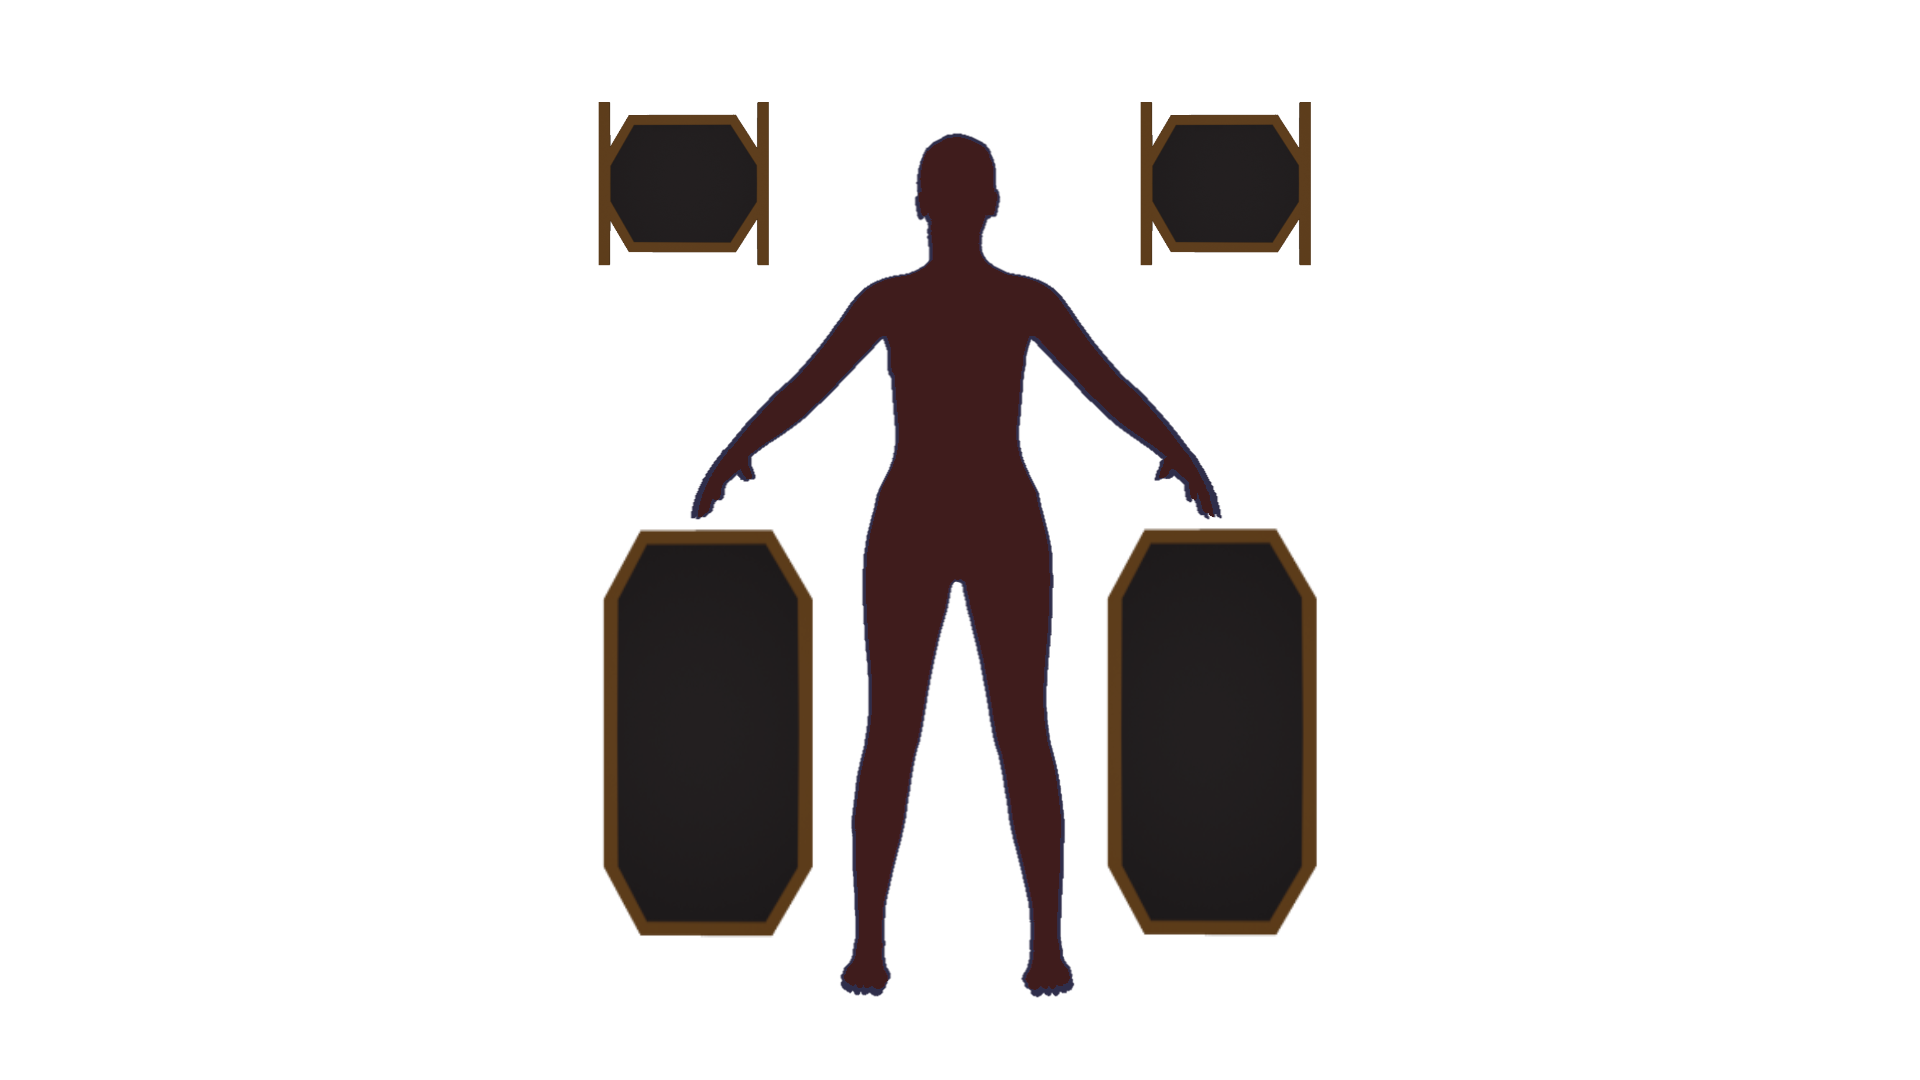
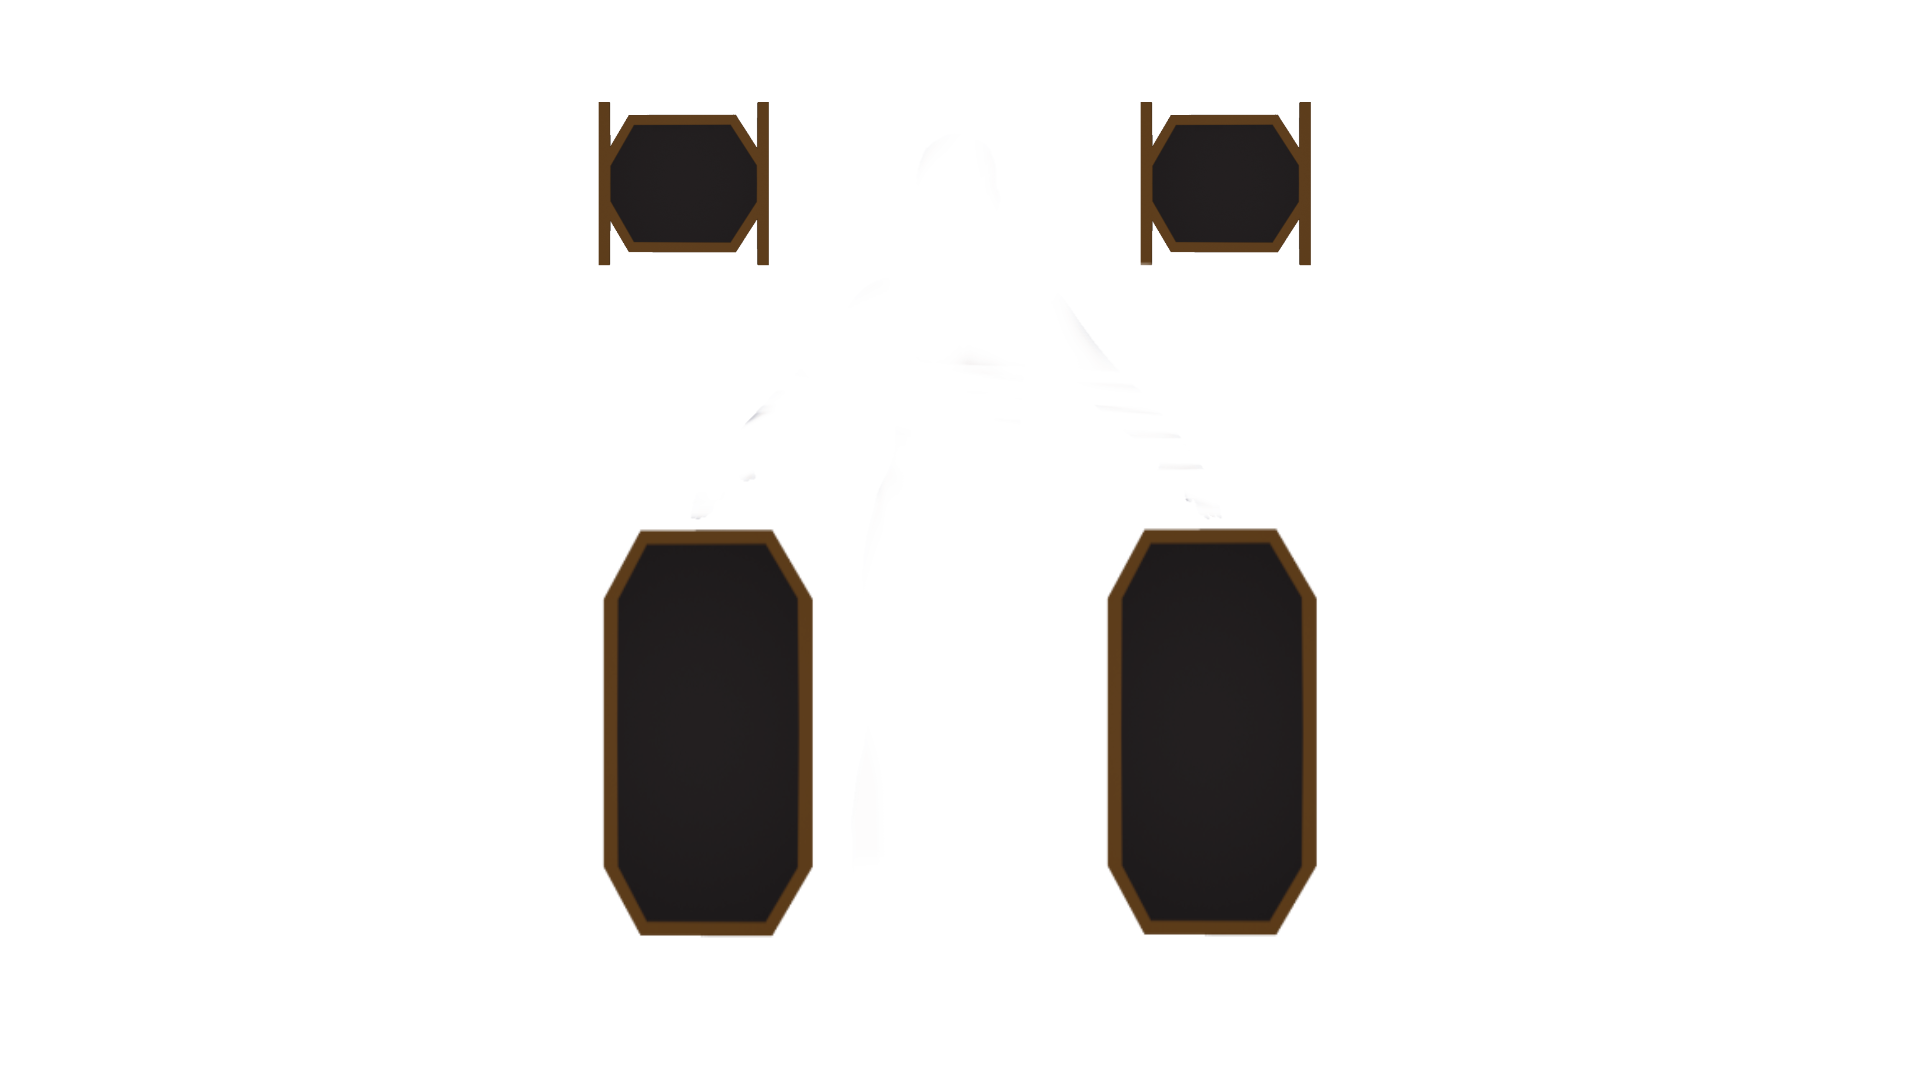
Refactoring Stage 29.8. Fix Character cheet view

Changed region(s): [[0.3438, 0.1222, 0.6562, 0.9472]]

diff --git a/Settings/UI/player_menu_ui.py b/Settings/UI/player_menu_ui.py
@@ -53,7 +53,7 @@ class PlayerMenuUI(Inventory):
         # Left, right, bottom, top
         self.base.frame_inv_size = [-3, 3, -1, 3]
         self.base.frame_inv_int_canvas_size = [-2, 2.3, -2, 2]
-        self.base.frame_inv_int_size = [-.5, .2, -1.3, .5]
+        self.base.frame_inv_int_size = [-.5, 1.2, -1.3, .5]
 
         """ Frame Colors """
         self.frm_opacity = 1
@@ -255,11 +255,11 @@ class PlayerMenuUI(Inventory):
                 base.is_ui_active = True
                 self.show_inventory_data()
                 self.base.is_inventory_active = True
-                self.prepare_character(camera=base.camera)
+                self.prepare_character()
             else:
                 self.clear_ui_inventory()
                 self.base.is_inventory_active = False
-                self.revert_character(camera=base.camera)
+                self.revert_character()
 
     def pos_2d(self, x, y):
         return Point3(x, 0, -y)
@@ -323,42 +323,42 @@ class PlayerMenuUI(Inventory):
             taskMgr.add(self.drag_and_drop_task, "drag_and_drop_task", sort=-50)
             self.is_inventory_items_loaded = True
 
-    def prepare_character(self, camera):
-        if self.base.is_inventory_active and camera:
+    def prepare_character(self):
+        if self.base.is_inventory_active:
             # keep default state of player camera
-            self.player_camera_default["pos"] = camera.get_pos()
-            self.player_camera_default["hpr"] = camera.get_hpr()
+            self.player_camera_default["pos"] = base.camera.get_pos()
+            self.player_camera_default["hpr"] = base.camera.get_hpr()
 
             if render.find("**/pivot"):
                 self.player_camera_default["pivot_hpr"] = render.find("**/pivot").get_hpr()
 
-            player_bs = base.get_actor_bullet_shape_node(asset="Player", type="Player")
-            if player_bs:
+            player = render.find("**/Player")
+            if player:
                 # set character view
-                base.player_pos = player_bs.get_pos()
-                base.player_hpr = player_bs.get_hpr()
-                camera.set_y(base.player_pos[1] + -2)
-                camera.set_z(base.player_pos[2] + -1.3)
-                camera.set_hpr(0, 0, 0)
+                player_pos = player.get_pos()
+                base.player_pos = player_pos
+                base.camera.set_x(player_pos[0] + -0.9)
+                base.camera.set_y(player_pos[1] + -4)
+                base.camera.set_z(player_pos[2] + 0.7)
+                base.camera.set_hpr(0, 0, 0)
                 if render.find("**/pivot"):
                     render.find("**/pivot").set_hpr(24.6, -0.999999, 0)
                 # set scene
-                if render.find("**/World"):
-                    render.find("**/World").hide()
+                """if render.find("**/World"):
+                    render.find("**/World").hide()"""
 
-    def revert_character(self, camera):
-        if camera:
-            # revert character view
-            pos = self.player_camera_default["pos"]
-            hpr = self.player_camera_default["hpr"]
-            pivot_hpr = self.player_camera_default["pivot_hpr"]
-            camera.set_pos(pos)
-            camera.set_hpr(hpr)
-            if render.find("**/pivot"):
-                render.find("**/pivot").set_hpr(pivot_hpr)
-            # revert scene
-            if render.find("**/World"):
-                render.find("**/World").show()
+    def revert_character(self):
+        # revert character view
+        player_pos = self.player_camera_default["pos"]
+        player_hpr = self.player_camera_default["hpr"]
+        pivot_hpr = self.player_camera_default["pivot_hpr"]
+        base.camera.set_pos(player_pos)
+        base.camera.set_hpr(player_hpr)
+        if render.find("**/pivot"):
+            render.find("**/pivot").set_hpr(pivot_hpr)
+        # revert scene
+        if render.find("**/World"):
+            render.find("**/World").show()
 
     # TODO: DELETE UNUSED
     """def clear_character_display(self):
